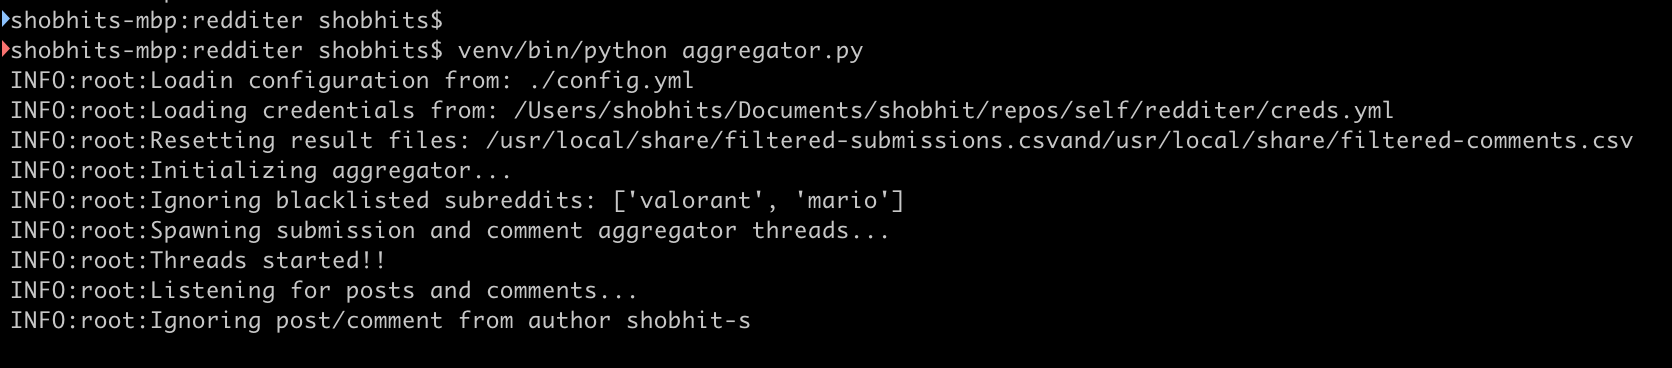
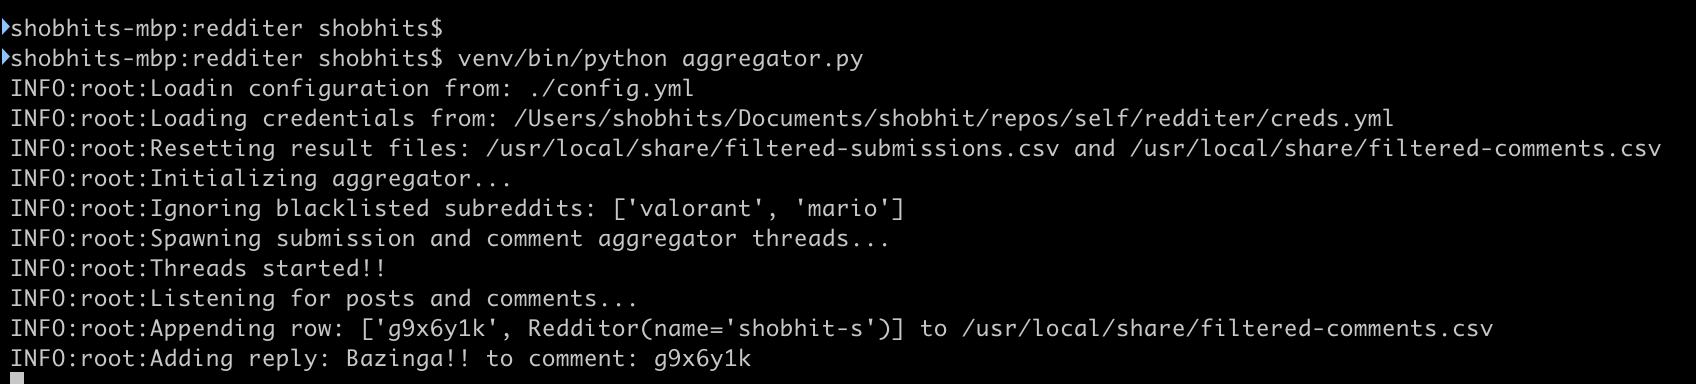
chg

Changed region(s): [[0.0, 0.5978, 0.8708, 1.0], [0.0, 0.0299, 0.8397, 0.3288], [0.0, 0.3587, 0.9952, 0.5679]]

diff --git a/aggregator.py b/aggregator.py
@@ -76,12 +76,11 @@ class Aggregator:
                 comment_stream = self.commentStream(self.subreddits)
 
 def resetResultFiles(submissionsFile, commentsFile):
-    logging.info("Resetting result files: " + submissionsFile + "and" + commentsFile)
-    try:
+    logging.info("Resetting result files: " + submissionsFile + " and " + commentsFile)
+    if os.path.exists(submissionsFile):
         os.remove(submissionsFile)
+    if os.path.exists(commentsFile):
         os.remove(commentsFile)
-    except OSError:
-        pass
 
 def loadConfig(path):
     logging.info("Loadin configuration from: " + path)

diff --git a/README.md b/README.md
@@ -166,3 +166,6 @@ Since we are dumping a CSV, this can be easily loaded into analytics systems and
     
     ###### Relevant logs generated by Redditer
     ![Relevant logs generated by Redditer](https://github.com/shobhits147/redditer/blob/master/images/command_line_logs.png?raw=true)
+    
+    ###### Comment by blacklisted user ignored
+    ![Comment by blacklisted user ignored](https://github.com/shobhits147/redditer/blob/master/images/ignoring_user_posts.png?raw=true)
